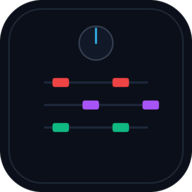
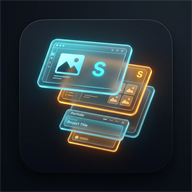
Fix CSS variable text display

diff --git a/output/wwwroot/BlazorPwaTemplate.styles.css b/output/wwwroot/BlazorPwaTemplate.styles.css
@@ -3412,6 +3412,155 @@ p[b-40llhomuir] {
     0% { transform: rotate(0deg); }
     100% { transform: rotate(360deg); }
 }
+/* /Shared/PwaInstallButton.razor.rz.scp.css */
+.pwa-install-container[b-qwlxhfmuo7] {
+    position: relative;
+    display: inline-block;
+}
+
+.pwa-install-button[b-qwlxhfmuo7] {
+    background: linear-gradient(135deg, var(--brand-accent), #1a6327);
+    color: white;
+    border: 1px solid rgba(255, 255, 255, 0.1);
+    border-radius: 20px;
+    padding: 8px 16px;
+    font-weight: 600;
+    font-size: 0.9rem;
+    cursor: pointer;
+    display: inline-flex;
+    align-items: center;
+    gap: 8px;
+    box-shadow: 0 4px 12px rgba(35, 134, 54, 0.3), inset 0 1px 0 rgba(255, 255, 255, 0.15);
+    transition: all 0.25s cubic-bezier(0.4, 0, 0.2, 1);
+    outline: none;
+}
+
+.pwa-install-button:hover[b-qwlxhfmuo7] {
+    background: linear-gradient(135deg, var(--brand-accent-hover), #238636);
+    transform: translateY(-1px);
+    box-shadow: 0 6px 16px rgba(35, 134, 54, 0.4), inset 0 1px 0 rgba(255, 255, 255, 0.2);
+}
+
+.pwa-install-button:active[b-qwlxhfmuo7] {
+    transform: translateY(1px);
+    box-shadow: 0 2px 6px rgba(35, 134, 54, 0.2);
+}
+
+.install-icon[b-qwlxhfmuo7] {
+    transition: transform 0.2s ease;
+}
+
+.pwa-install-button:hover .install-icon[b-qwlxhfmuo7] {
+    transform: translateY(1px);
+}
+
+/* iOS Instruction Tooltip */
+.pwa-ios-tooltip-backdrop[b-qwlxhfmuo7] {
+    position: fixed;
+    top: 0;
+    left: 0;
+    width: 100vw;
+    height: 100vh;
+    z-index: 999;
+    background: transparent;
+}
+
+.pwa-ios-tooltip[b-qwlxhfmuo7] {
+    position: absolute;
+    bottom: calc(100% + 12px);
+    right: 0;
+    width: 280px;
+    background: rgba(22, 27, 34, 0.95);
+    border: 1px solid var(--border-dim);
+    border-radius: 12px;
+    padding: 16px;
+    box-shadow: 0 8px 32px rgba(0, 0, 0, 0.5);
+    backdrop-filter: blur(12px);
+    -webkit-backdrop-filter: blur(12px);
+    color: var(--text-white);
+    z-index: 1000;
+    animation: tooltipFadeIn-b-qwlxhfmuo7 0.3s cubic-bezier(0.18, 0.89, 0.32, 1.28);
+    transform-origin: bottom right;
+}
+
+@keyframes tooltipFadeIn-b-qwlxhfmuo7 {
+    from {
+        opacity: 0;
+        transform: scale(0.9) translateY(10px);
+    }
+    to {
+        opacity: 1;
+        transform: scale(1) translateY(0);
+    }
+}
+
+.tooltip-header[b-qwlxhfmuo7] {
+    display: flex;
+    justify-content: space-between;
+    align-items: center;
+    margin-bottom: 12px;
+    border-bottom: 1px solid rgba(255, 255, 255, 0.08);
+    padding-bottom: 8px;
+}
+
+.tooltip-header strong[b-qwlxhfmuo7] {
+    font-size: 0.95rem;
+    color: var(--text-white);
+}
+
+.tooltip-close[b-qwlxhfmuo7] {
+    background: none;
+    border: none;
+    color: var(--text-dark-muted);
+    font-size: 1.2rem;
+    cursor: pointer;
+    line-height: 1;
+    padding: 0;
+    transition: color 0.2s;
+}
+
+.tooltip-close:hover[b-qwlxhfmuo7] {
+    color: var(--text-white);
+}
+
+.tooltip-body[b-qwlxhfmuo7] {
+    font-size: 0.85rem;
+    line-height: 1.5;
+    color: var(--text-white);
+}
+
+.tooltip-body p[b-qwlxhfmuo7] {
+    margin: 0 0 10px 0;
+}
+
+.tooltip-body ol[b-qwlxhfmuo7] {
+    margin: 0;
+    padding-left: 20px;
+}
+
+.tooltip-body li[b-qwlxhfmuo7] {
+    margin-bottom: 8px;
+}
+
+.inline-icon[b-qwlxhfmuo7] {
+    width: 14px;
+    height: 14px;
+    display: inline-block;
+    vertical-align: middle;
+    margin: 0 2px;
+    color: var(--brand-accent-hover);
+}
+
+.tooltip-arrow[b-qwlxhfmuo7] {
+    position: absolute;
+    top: 100%;
+    right: 24px;
+    width: 0;
+    height: 0;
+    border-left: 8px solid transparent;
+    border-right: 8px solid transparent;
+    border-top: 8px solid rgba(22, 27, 34, 0.95);
+}
 /* /Shared/PwaInstallPrompt.razor.rz.scp.css */
 /* ============================================================
    PwaInstallPrompt.razor.css

diff --git a/output/wwwroot/index.html b/output/wwwroot/index.html
@@ -14,7 +14,11 @@
     <div id="app">
         <div class="shotstack-loader">
             <div class="spinner"></div>
-            <span>Mounting ShotStack Environment...</span>
+            <span class="loading-text">Mounting ShotStack Environment...</span>
+            <div class="progress-bar-container">
+                <div class="progress-bar-fill" style="width: var(--blazor-load-percentage, 0%)"></div>
+            </div>
+            <span class="progress-text">Loading... var(--blazor-load-percentage-text, 0)%</span>
         </div>
     </div>
 
@@ -25,7 +29,26 @@
     </div>
 
     <script src="_framework/blazor.webassembly.66stpp682q.js"></script>
-    <script>navigator.serviceWorker.register('service-worker.js');</script>
+    <script>
+        navigator.serviceWorker.register('service-worker.js').then(registration => {
+            registration.onupdatefound = () => {
+                const installingWorker = registration.installing;
+                if (installingWorker == null) {
+                    return;
+                }
+                installingWorker.onstatechange = () => {
+                    if (installingWorker.state === 'installed') {
+                        if (navigator.serviceWorker.controller) {
+                            // A new service worker has been installed and is ready to take over.
+                            // We force a reload to ensure the new assets and index.html are used.
+                            console.log('New or updated content is available, forcing reload...');
+                            window.location.reload();
+                        }
+                    }
+                };
+            };
+        });
+    </script>
     <script src="js/editorInteractions.js"></script>
     
     <script>

diff --git a/output/wwwroot/service-worker-assets.js b/output/wwwroot/service-worker-assets.js
@@ -1,13 +1,13 @@
 self.assetsManifest = {
-  "version": "RZp9bV9q",
+  "version": "jClQl/YQ",
   "assets": [
     {
-      "hash": "sha256-rAfn93dzRXE+KGURkncJhwxZxx76NepHyGNJIB2gl8c=",
+      "hash": "sha256-/ObLEsbWjpsOTZSdOq9u1jx1LMv9dCaZLHYN9tB9+fQ=",
       "url": "BlazorPwaTemplate.styles.css"
     },
     {
-      "hash": "sha256-IldU1wfALedQv8qLhSZhTWJxxAxwciXDCu0LPEIRT3c=",
-      "url": "_framework/BlazorPwaTemplate.isuxh79yed.wasm"
+      "hash": "sha256-p21n7HaxoYozk5fw/aaUNKIkr6Nqlfcs1wsJ8epXAHw=",
+      "url": "_framework/BlazorPwaTemplate.35zjpnkqo3.wasm"
     },
     {
       "hash": "sha256-wfZQOpXXKYVO6Y4t5cHe0eE4Y+9lQGWPlXKAVHLzcEw=",
@@ -282,16 +282,16 @@ self.assetsManifest = {
       "url": "_framework/de/PdfSharpCore.resources.r4v23awm56.wasm"
     },
     {
+      "hash": "sha256-icKY/Ts3iAne20Zn/EL1iGQitcCnjoWIF2OOGz/Z1MA=",
+      "url": "_framework/dotnet.n4hnvmfkvd.js"
+    },
+    {
       "hash": "sha256-JjMhahXGk4ELW2kbrcR3UeesPCjS5u+B+GQgd60DYQw=",
       "url": "_framework/dotnet.native.qr0tyun6e2.wasm"
     },
     {
       "hash": "sha256-tbdOhKKgalQg+4CRJwGgfGgIMk5afIP+osIevfSO2HI=",
       "url": "_framework/dotnet.native.tyx3t34m37.js"
-    },
-    {
-      "hash": "sha256-t6wZZLBqw0bRNMPHAaz8h7byWTiqyauV6i6SlWrP5Bo=",
-      "url": "_framework/dotnet.pw7pfwns6o.js"
     },
     {
       "hash": "sha256-YyudibIWETMKrLb+nAZdJ+xDY7HY6BWf6s32UAdcvCU=",
@@ -314,7 +314,7 @@ self.assetsManifest = {
       "url": "_headers"
     },
     {
-      "hash": "sha256-Qyh0nQ2WI2CTb8YsGYaA6vhX2/A8eRSwnu7NXdwNNT8=",
+      "hash": "sha256-HAgO723jYE85W6jzohiF3yxbwBnPMG8aO8hiT7cdigM=",
       "url": "css/app.css"
     },
     {
@@ -322,11 +322,11 @@ self.assetsManifest = {
       "url": "favicon.png"
     },
     {
-      "hash": "sha256-6++lZJMwW9H3T50bhJH/jyt9QjW6Ik9A+fWFsAmRTic=",
+      "hash": "sha256-pWZiEElyShxCkXHTFDMjNYmKahEBoz1T/hEs/sd900U=",
       "url": "icon-192.png"
     },
     {
-      "hash": "sha256-CpPsovlm9xitheQaTR/2UMgYYdD2Za8FQnBnsVYmzRk=",
+      "hash": "sha256-KzpLIL+N7JcSdzl4GnYbfpWygK2v3F6qZWbeuSgogMg=",
       "url": "icon-512.png"
     },
     {
@@ -334,7 +334,7 @@ self.assetsManifest = {
       "url": "icon.svg"
     },
     {
-      "hash": "sha256-LBsuIw+JQnHIzk79KsQk8uogkj1kBKmOVv3gkkqp0qU=",
+      "hash": "sha256-jQxiQBqTigpcNO+eqv79wBieDpOqhGNJUBRHvmZbC5A=",
       "url": "index.html"
     },
     {

diff --git a/wwwroot/index.html b/wwwroot/index.html
@@ -18,7 +18,12 @@
             <div class="progress-bar-container">
                 <div class="progress-bar-fill" style="width: var(--blazor-load-percentage, 0%)"></div>
             </div>
-            <span class="progress-text">Loading... var(--blazor-load-percentage-text, 0)%</span>
+            <style>
+                .progress-text::after {
+                    content: var(--blazor-load-percentage-text, "0") "%";
+                }
+            </style>
+            <span class="progress-text">Loading... </span>
         </div>
     </div>
 

diff --git a/output/wwwroot/css/app.css b/output/wwwroot/css/app.css
@@ -345,8 +345,12 @@ body, html {
 }
 
 /* Custom System Hydration Animation View */
-.shotstack-loader { display: flex; flex-direction: column; align-items: center; gap: 16px; justify-content: center; height: 100vh; background: var(--bg-darker); }
+.shotstack-loader { display: flex; flex-direction: column; align-items: center; gap: 16px; justify-content: center; height: 100vh; background: var(--bg-darker); font-family: system-ui, -apple-system, sans-serif; color: var(--text-white); }
 .spinner { width: 40px; height: 40px; border: 4px solid var(--border-dim); border-top-color: var(--brand-accent); border-radius: 50%; animation: spin 1s linear infinite; }
+.shotstack-loader .loading-text { font-size: 1.05rem; font-weight: 500; letter-spacing: 0.5px; color: var(--text-white); }
+.shotstack-loader .progress-bar-container { width: 200px; height: 6px; background: var(--border-dim); border-radius: 3px; overflow: hidden; margin-top: 4px; }
+.shotstack-loader .progress-bar-fill { height: 100%; background: var(--brand-accent); width: var(--blazor-load-percentage, 0%); border-radius: 3px; transition: width 0.1s ease; }
+.shotstack-loader .progress-text::after { content: var(--blazor-load-percentage-text, "Loading..."); font-size: 0.85rem; color: var(--text-dark-muted); font-weight: 600; }
 @keyframes spin { to { transform: rotate(360deg); } }
 @keyframes fadeIn { from { opacity: 0; } to { opacity: 1; } }
 

diff --git a/output/wwwroot/service-worker.js b/output/wwwroot/service-worker.js
@@ -1,4 +1,4 @@
-/* Manifest version: RZp9bV9q */
+/* Manifest version: jClQl/YQ */
 // Caution! Be sure you understand the caveats before publishing an application with
 // offline support. See https://aka.ms/blazor-offline-considerations
 